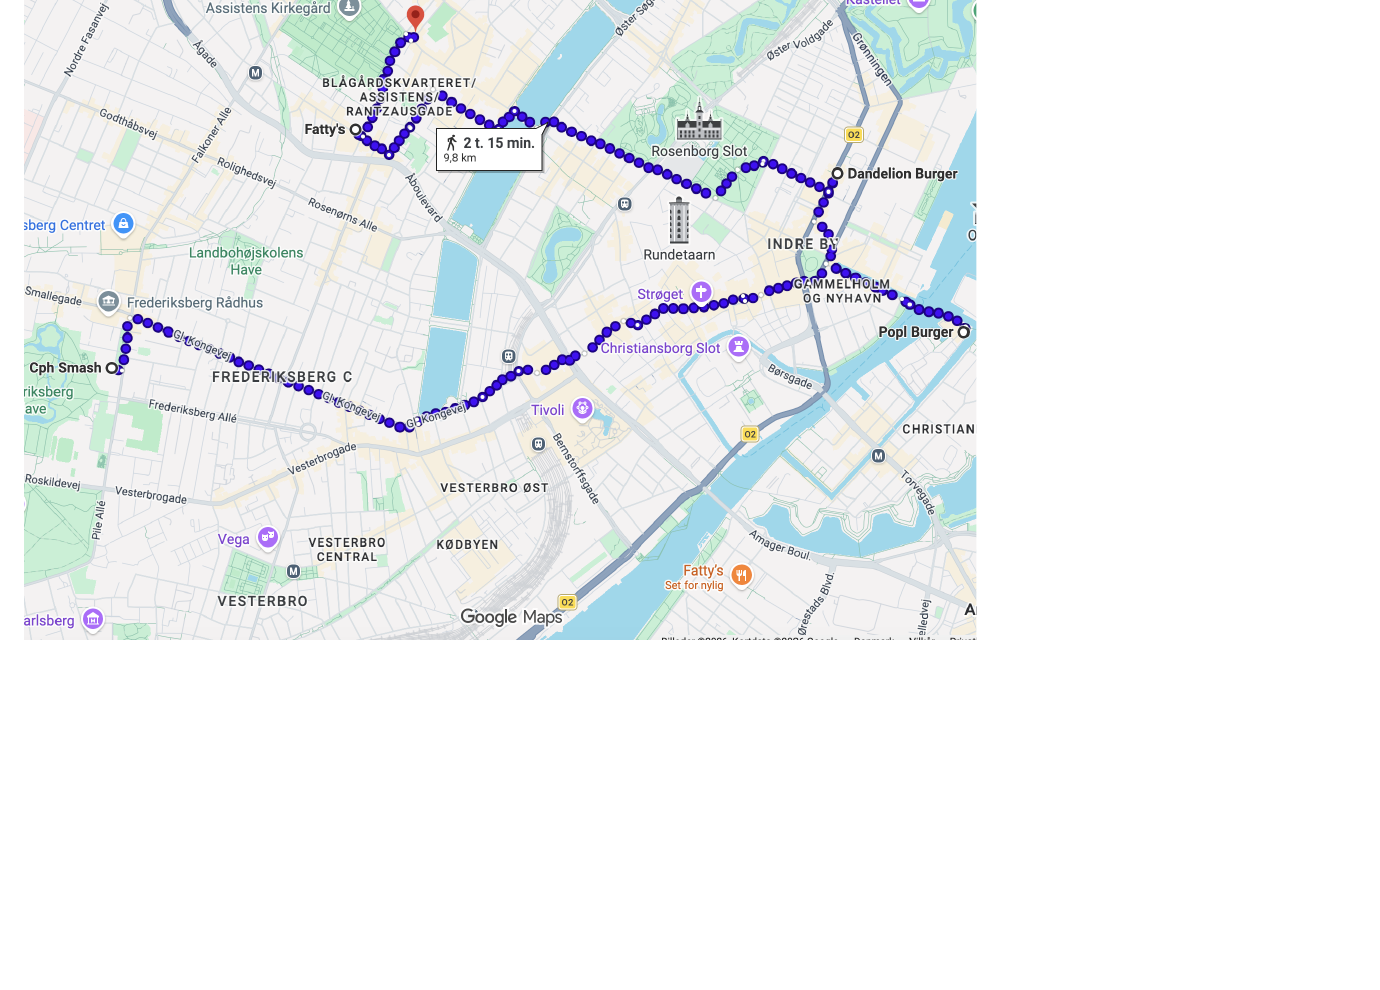
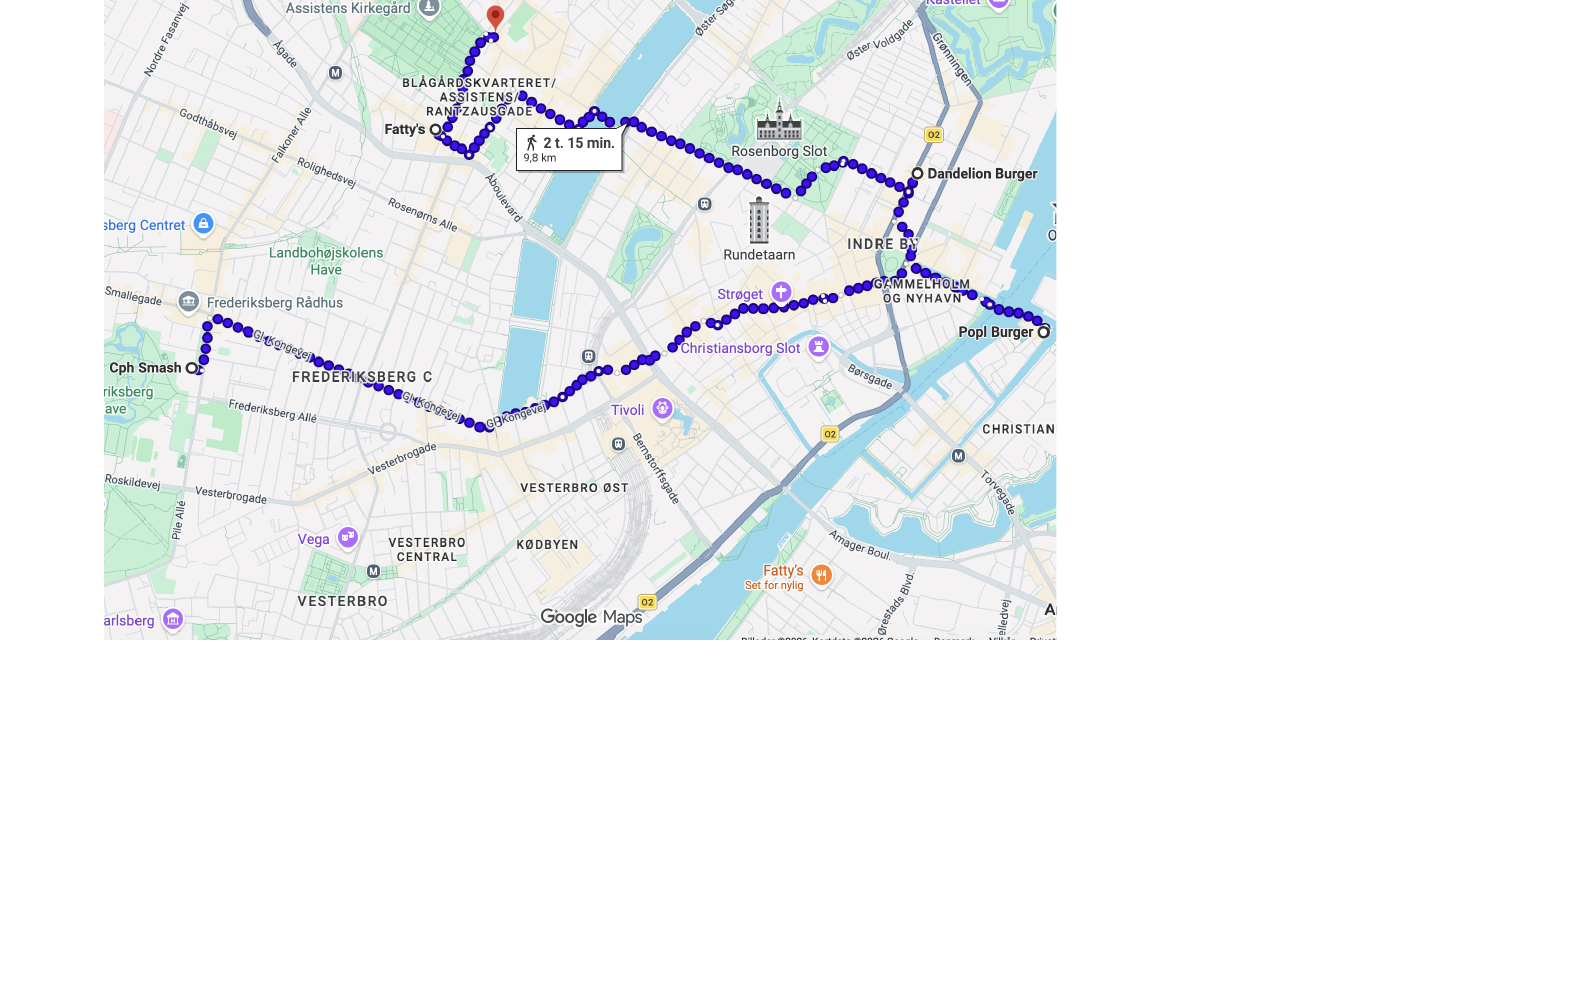
Wider map crop; swap POPL for Gasoline Grill

Changed region(s): [[0.0, 0.0, 0.7167, 0.6667]]

diff --git a/index.html b/index.html
@@ -63,7 +63,7 @@
     letter-spacing: 0.5px;
   }
   .place-name.cph { font-family: "Impact","Oswald",sans-serif; letter-spacing: 1px; }
-  .place-name.popl { font-family: "Impact","Oswald",sans-serif; letter-spacing: 2px; }
+  .place-name.gasoline { font-family: "Impact","Oswald",sans-serif; letter-spacing: 1px; text-transform: uppercase; }
   .place-name.dandelion { font-style: italic; font-weight: 700; }
   .place-name.fattys { color: var(--red); font-family: "Impact","Oswald",sans-serif; letter-spacing: 1px; }
   .place-name.joker { letter-spacing: 3px; }
@@ -175,7 +175,7 @@
 <script>
   const PLACES = [
     { id: "cph",       name: "CPH Smash Burgers", className: "cph" },
-    { id: "popl",      name: "POPL",              className: "popl" },
+    { id: "gasoline",  name: "Gasoline Grill",    className: "gasoline" },
     { id: "dandelion", name: "Dandelion Burger",  className: "dandelion" },
     { id: "fattys",    name: "Fatty's",           className: "fattys" },
     { id: "joker",     name: "Joker",             className: "joker", icon: "🍔" }
